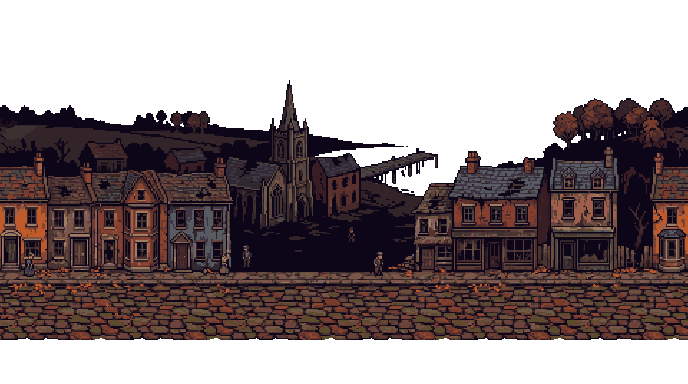
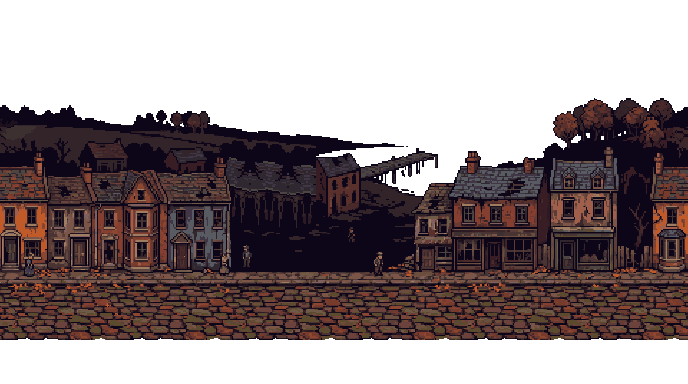
The painted church is out, and the chapel stands where it was
There were two churches in Dreadhollow: the one painted into the backdrop and
the one that gets repaired standing in front of it. The painted one is gone —
the skyline is carried across the gap it left, and the hill face behind it is
the hill face beside it, taken a row at a time so the lit band across the
slope keeps its height, and laid back mirrored so no shape of anything came
with it.

What is left is a hole in the terrace between the houses and the shops, which
is where the chapel now stands: 16.75, in the middle of it.

Only art/town/backdrop.png is edited. The upload it was copied from is
untouched, so the painting as generated is still in the repo.

Claude-Session: https://claude.ai/code/session_01EmLBWQrx9PGQdzaECz8urW

Changed region(s): [[0.3358, 0.2188, 0.4578, 0.5938], [0.3358, 0.3438, 0.3663, 0.375]]

diff --git a/content/maps.js b/content/maps.js
@@ -133,8 +133,10 @@ export const MAPS = {
   },
 
   // Dreadhollow itself: one street, seen from the side. The painting is the town behind —
-  // the terraces, the spire and the hills are in it, not standing on it — and the cobbles
-  // in front of it are what is walked. Everything below is in tiles along that street.
+  // the terraces, the hills and the ruined quay are in it, not standing on it — and the
+  // cobbles in front are what is walked. Everything below is in tiles along that street.
+  // The gap in the terrace was a painted church; it was taken out so the chapel that is
+  // repaired could stand there instead of in front of one that never changes.
   //   art     — the painted town, drawn at 1:1 and laid end to end `repeats` times, every
   //             other copy flipped so the row of houses does not visibly restart.
   //   size    — how much of that painting the town is, in pixels: its width, and its height
@@ -157,7 +159,7 @@ export const MAPS = {
       size: [688, 338], // the painting is 384 tall; below 338 it is empty
       ground: 328, // the cobbles, a little in front of the kerb
       sill: 272, // and the back of the pavement, where the terrace stands
-      repeats: 1, // one composed scene, and there is only one spire in Dreadhollow
+      repeats: 1, // one composed scene; laid twice it would be the same town twice
     },
     spawn: [18],
     doors: [
@@ -211,6 +213,6 @@ export const MAPS = {
       '#++++++++++++++++++++#',
       '##########D###########',
     ],
-    doors: [{ x: 10, y: 14, to: 'village', spawn: [18] }],
+    doors: [{ x: 10, y: 14, to: 'village', spawn: [17] }],
   },
 };

diff --git a/content/looks.js b/content/looks.js
@@ -241,7 +241,7 @@ export const STRUCTURES = [
     // then roofed and lit. 128 pixels of picture over the chapel's seven rows of tiles.
     id: 'chapel',
     path: 'art/chapel',
-    at: [18],
+    at: [16.75],
     under: 'stone', // it stands on the paving, so what its picture clears is paving
     stages: [
       'base/rotations/unknown.png',

diff --git a/content/places.js b/content/places.js
@@ -43,7 +43,7 @@ export const PLACES = [
     label: 'The chapel',
     note: 'Ruin',
     map: 'village',
-    at: [18],
+    at: [17],
     building: 'chapel',
     body: [
       'It shuts off the north end of the paving, and it is the tallest thing left standing in Dreadhollow even with its roof in the nave.',

diff --git a/content/buildings.js b/content/buildings.js
@@ -40,7 +40,7 @@ export const BUILDINGS = [
     id: 'chapel',
     name: 'The chapel',
     map: 'village',
-    site: [18],
+    site: [17],
     enter: 'chapel',
     level: 0,
     stages: [
